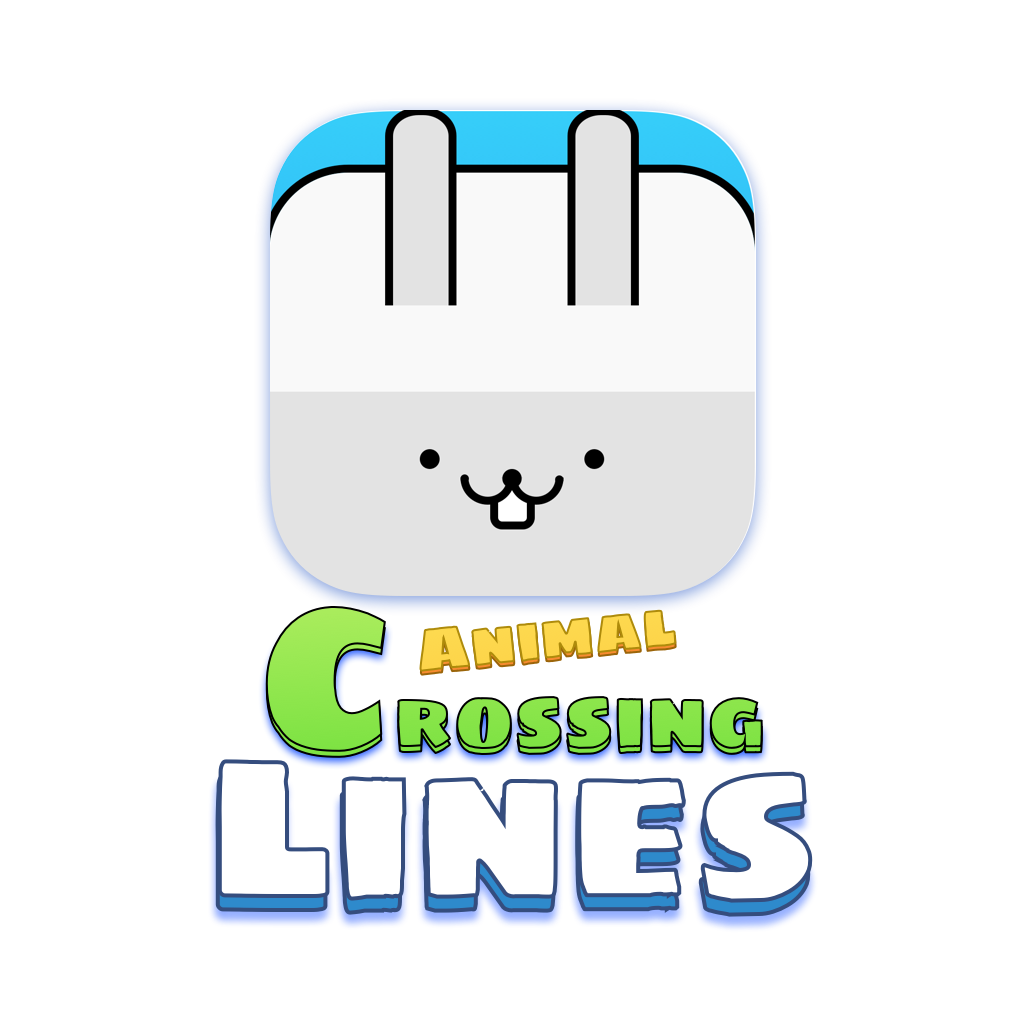
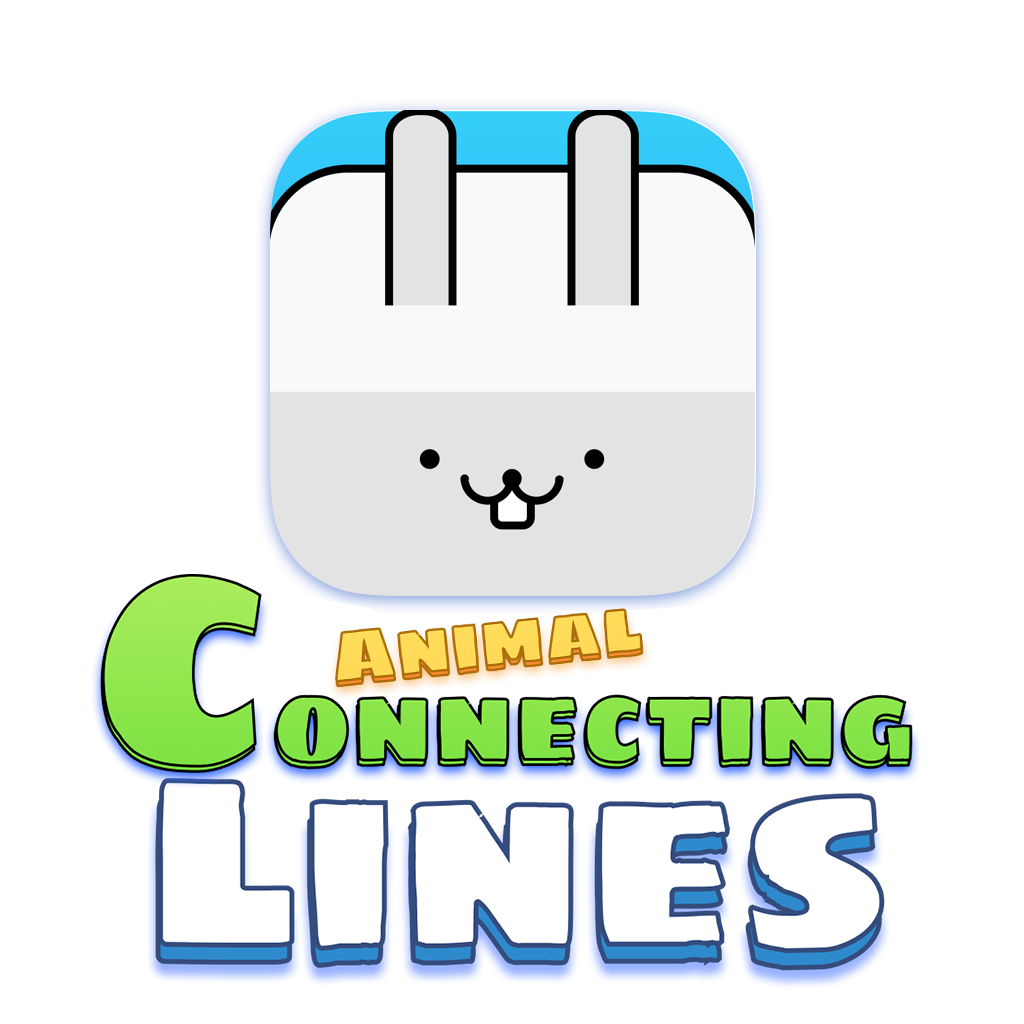
changed name to connecting

Changed region(s): [[0.0938, 0.5625, 0.9062, 0.9688]]

diff --git a/index.html b/index.html
@@ -37,7 +37,7 @@
         </div>
         <div class="introduction">
           <div class="intro-text">
-            <h1>Animal Crossing Lines</h1>
+            <h1>Animal Connecting Lines</h1>
             <p>
               Connect the same animals using lines and your wisdom. Can you help
               the cute animals finding their friends?
